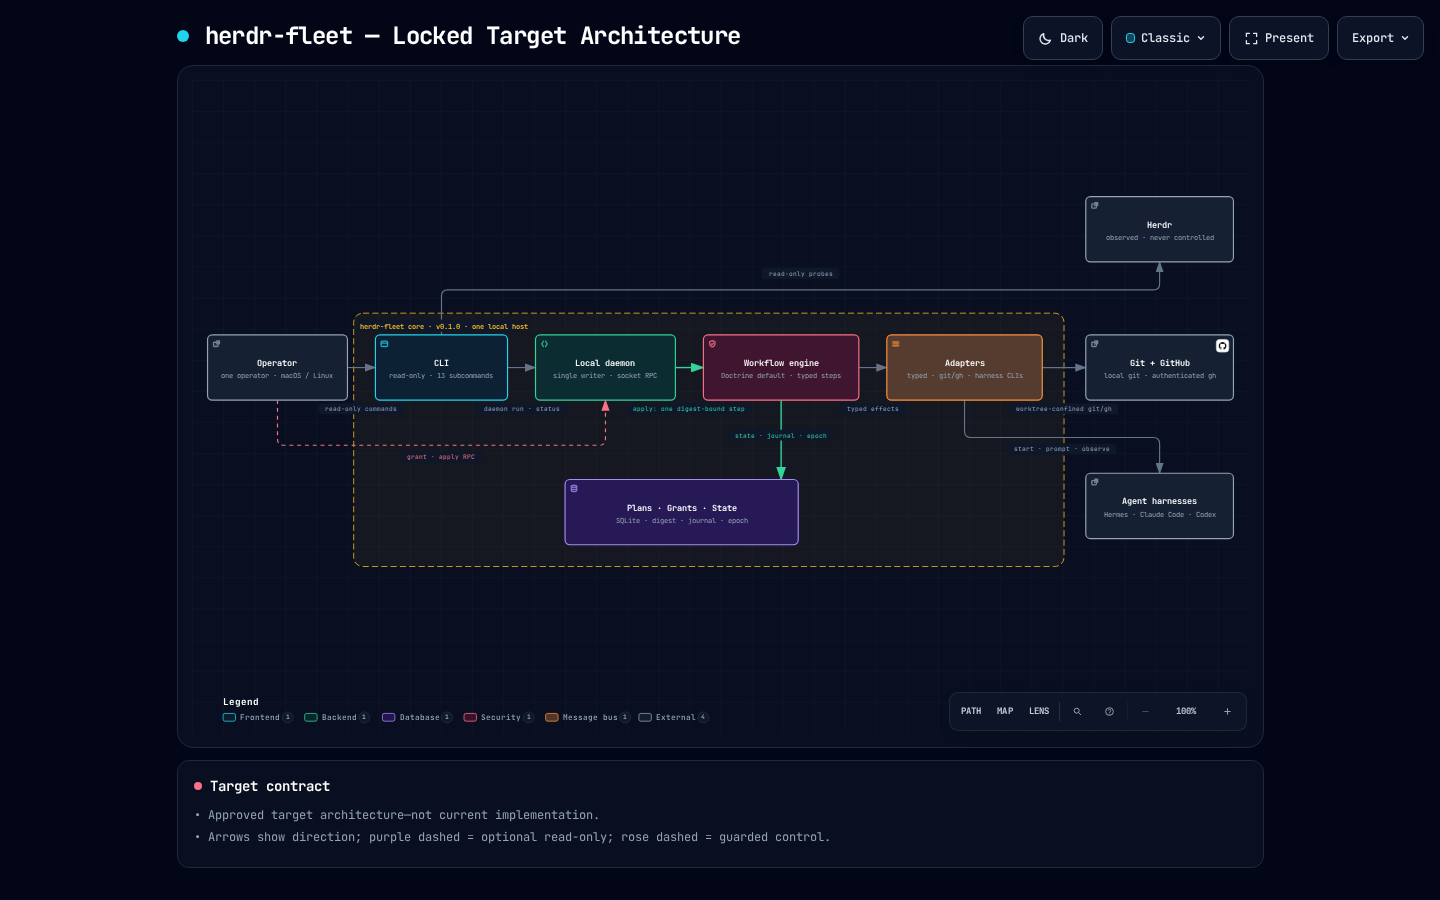
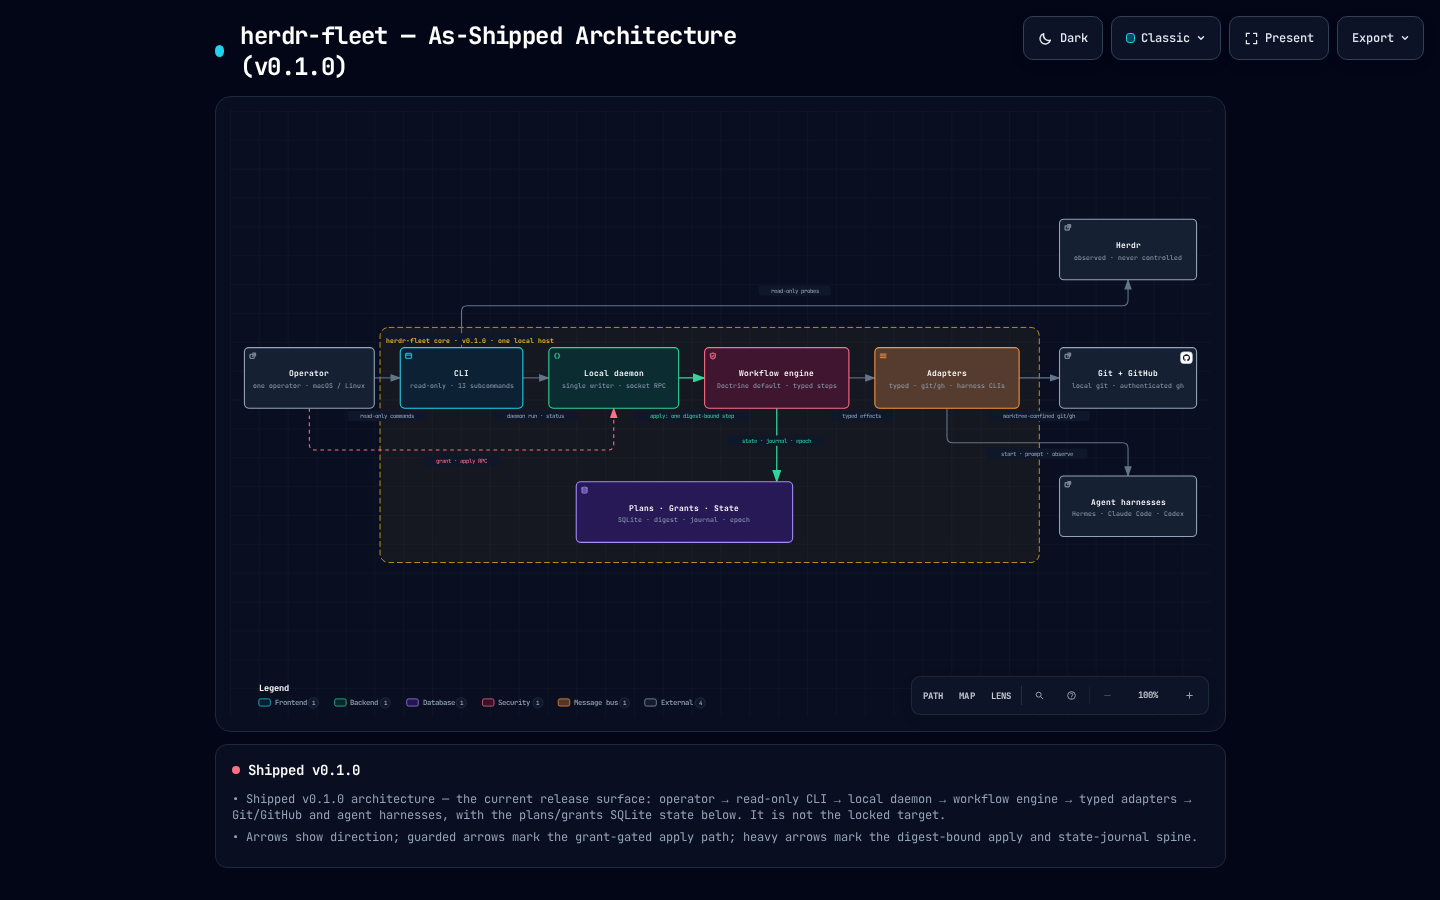
docs(architecture): re-author export-shell chrome to as-shipped identity (h1 + info card), re-render previews (Refs #29)

diff --git a/docs/architecture/herdr-fleet.as-shipped.architecture.html b/docs/architecture/herdr-fleet.as-shipped.architecture.html
@@ -4955,7 +4955,7 @@
            data-preset-badge-blueprint="BLUEPRINT / REV 01"
            data-preset-badge-editorial="EDITORIAL / FIELD NOTE">
         <div class="pulse-dot"></div>
-        <h1>herdr-fleet — Locked Target Architecture</h1>
+        <h1>herdr-fleet — As-Shipped Architecture (v0.1.0)</h1>
       </div>
     </div>
 
@@ -5413,11 +5413,11 @@
       <div class="card">
         <div class="card-header">
           <div class="card-dot rose"></div>
-          <h3>Target contract</h3>
+          <h3>Shipped v0.1.0</h3>
         </div>
         <ul>
-          <li>&bull; Approved target architecture—not current implementation.</li>
-          <li>&bull; Arrows show direction; purple dashed = optional read-only; rose dashed = guarded control.</li>
+          <li>&bull; Shipped v0.1.0 architecture — the current release surface: operator → read-only CLI → local daemon → workflow engine → typed adapters → Git/GitHub and agent harnesses, with the plans/grants SQLite state below. It is not the locked target.</li>
+          <li>&bull; Arrows show direction; guarded arrows mark the grant-gated apply path; heavy arrows mark the digest-bound apply and state-journal spine.</li>
         </ul>
       </div>
     </div>

diff --git a/docs/architecture/README.md b/docs/architecture/README.md
@@ -37,9 +37,14 @@ optional read-only Corral edge, no workspace/pane edges into Herdr.
   reuses the committed locked-target Archify **export shell** — the same
   self-contained runtime, pre-paint theme resolver, toolbar, and CSS
   (generator `archify 2.17.0-dev.1`) — with the diagram body (SVG) authored in
-  the export's own markup conventions from the committed JSON. The
-  `<meta name="generator">` line states this exactly; no archify regeneration
-  was performed.
+  the export's own markup conventions from the committed JSON. The shell's
+  rendered chrome was **re-authored to the as-shipped identity as well**: the
+  page `<h1>` reads "herdr-fleet — As-Shipped Architecture (v0.1.0)" and the
+  footer info card ("Shipped v0.1.0") carries as-shipped prose and the
+  as-shipped arrow legend — no locked-target title, "Target contract" card, or
+  locked-target arrow legend remains anywhere in the file. The
+  `<meta name="generator">` line states the shell reuse exactly; no archify
+  regeneration was performed.
 - **PNG previews**: rendered from the local HTML (`file://`) with
   chrome-headless-shell (reports itself as Google Chrome for Testing
   151.0.7922.34), window 1440×900, `--force-device-scale-factor=1`, using the
@@ -75,9 +80,9 @@ file's default theme is dark.)
 | File | SHA-256 |
 | --- | --- |
[7 lines of base64/hex data omitted]
 
 ## Locked target architecture (v5)
 
